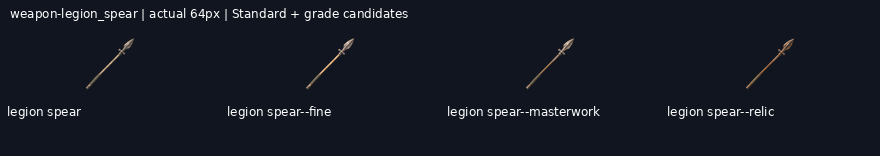
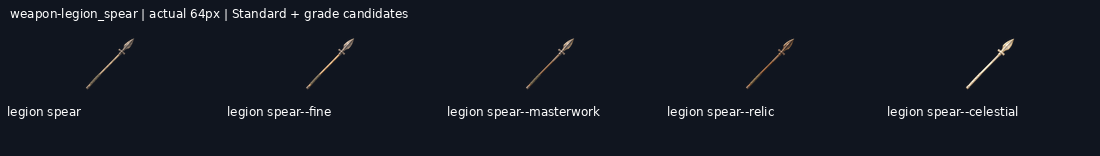
Deliver weapon-legion_spear--celestial review candidate with native provenance and exports

diff --git a/art/_archive/gear/2026-11-21-retry-continuation/HANDOFF.md b/art/_archive/gear/2026-11-21-retry-continuation/HANDOFF.md
@@ -1,13 +1,13 @@
 # Reset continuation progress
 
-Branch: `art/2026-11-20-reset-continuation`. New deliveries: 2/26.
+Branch: `art/2026-11-20-reset-continuation`. New deliveries: 3/26.
 
 Shared coordination: https://github.com/leonpentastorm/Project-Heaven-Cry/issues/3 . Read START-HERE.md before extending this queue.
 
 All new entries remain review-candidate; production_approved:false and implementation_ready:false. Exact-outline review remains pending.
 
-Ready jobs: weapon-legion_spear--celestial, weapon-short_draw--fine, weapon-long_draw--fine, weapon-purifier_flamer--masterwork, weapon-dock_cutter--masterwork, weapon-kemizuchi_side_sword--masterwork, weapon-ork_cleaver_glaive--masterwork, weapon-broadback_sabre--relic, weapon-hellraiser_rotary--celestial.
+Ready jobs: weapon-short_draw--fine, weapon-long_draw--fine, weapon-purifier_flamer--masterwork, weapon-dock_cutter--masterwork, weapon-kemizuchi_side_sword--masterwork, weapon-ork_cleaver_glaive--masterwork, weapon-broadback_sabre--relic, weapon-hellraiser_rotary--celestial.
 
-Pending jobs: weapon-legion_spear--celestial, weapon-short_draw--fine, weapon-long_draw--fine, weapon-purifier_flamer--masterwork, weapon-dock_cutter--masterwork, weapon-short_draw--masterwork, weapon-long_draw--masterwork, weapon-kemizuchi_side_sword--masterwork, weapon-ork_cleaver_glaive--masterwork, weapon-purifier_flamer--relic, weapon-dock_cutter--relic, weapon-broadback_sabre--relic, weapon-short_draw--relic, weapon-long_draw--relic, weapon-kemizuchi_side_sword--relic, weapon-ork_cleaver_glaive--relic, weapon-hellraiser_rotary--celestial, weapon-purifier_flamer--celestial, weapon-dock_cutter--celestial, weapon-broadback_sabre--celestial, weapon-short_draw--celestial, weapon-long_draw--celestial, weapon-kemizuchi_side_sword--celestial, weapon-ork_cleaver_glaive--celestial.
+Pending jobs: weapon-short_draw--fine, weapon-long_draw--fine, weapon-purifier_flamer--masterwork, weapon-dock_cutter--masterwork, weapon-short_draw--masterwork, weapon-long_draw--masterwork, weapon-kemizuchi_side_sword--masterwork, weapon-ork_cleaver_glaive--masterwork, weapon-purifier_flamer--relic, weapon-dock_cutter--relic, weapon-broadback_sabre--relic, weapon-short_draw--relic, weapon-long_draw--relic, weapon-kemizuchi_side_sword--relic, weapon-ork_cleaver_glaive--relic, weapon-hellraiser_rotary--celestial, weapon-purifier_flamer--celestial, weapon-dock_cutter--celestial, weapon-broadback_sabre--celestial, weapon-short_draw--celestial, weapon-long_draw--celestial, weapon-kemizuchi_side_sword--celestial, weapon-ork_cleaver_glaive--celestial.
 
 Quota state: null.

diff --git a/art/briefs/prompts-2026-11-19/PRODUCTION-STATUS.md b/art/briefs/prompts-2026-11-19/PRODUCTION-STATUS.md
@@ -1,12 +1,12 @@
 # Current sole-artist production
 
-**514/871 (59.0%) selected review candidates.** Last delivery: `weapon-legion_spear--relic`. Imports, exports, components, rejected attempts and archived alternatives add0. Artistic/implementation approvals remainfalse.
+**515/871 (59.1%) selected review candidates.** Last delivery: `weapon-legion_spear--celestial`. Imports, exports, components, rejected attempts and archived alternatives add0. Artistic/implementation approvals remainfalse.
 
 | Requested work | Selected | Total |
 | --- | ---: | ---: |
 | icons_tiles | 87 | 88 |
 | new_repaint_standards | 53 | 104 |
-| grades | 360 | 656 |
+| grades | 361 | 656 |
 | uniques | 14 | 23 |
 
 Active run sole-20261121-0109, branch art/2026-11-20-reset-continuation. Shared live ledger: https://github.com/leonpentastorm/Project-Heaven-Cry/issues/3 . Current renewed grade lane: art/_archive/gear/2026-11-21-retry-continuation/START-HERE.md. All earlier512 candidate drawings were integrated before this lane; native bytes, cleaned imports, source metadata and all prior failures preserved.

diff --git a/art/_archive/gear/2026-11-20-reset-continuation/START-HERE.md b/art/_archive/gear/2026-11-20-reset-continuation/START-HERE.md
@@ -1,6 +1,6 @@
 # Current21November continuation
 
-514/871 selected. Active lane art/_archive/gear/2026-11-21-retry-continuation/START-HERE.md, run sole-20261121-0109. User explicitly authorized renewed fictional-art attempts; all priorart/errors preserved. Read liveissue3+allcomments and remote deliveries before everyrender. RunningScript completed with original marks unchanged. All approvalsfalse;0.30 holdsremain. See PRODUCTION-STATUS.md and REMAINING-WORK.json for the latest exact count.
+515/871 selected. Active lane art/_archive/gear/2026-11-21-retry-continuation/START-HERE.md, run sole-20261121-0109. User explicitly authorized renewed fictional-art attempts; all priorart/errors preserved. Read liveissue3+allcomments and remote deliveries before everyrender. RunningScript completed with original marks unchanged. All approvalsfalse;0.30 holdsremain. See PRODUCTION-STATUS.md and REMAINING-WORK.json for the latest exact count.
 
 # Historical20November handoff
 
